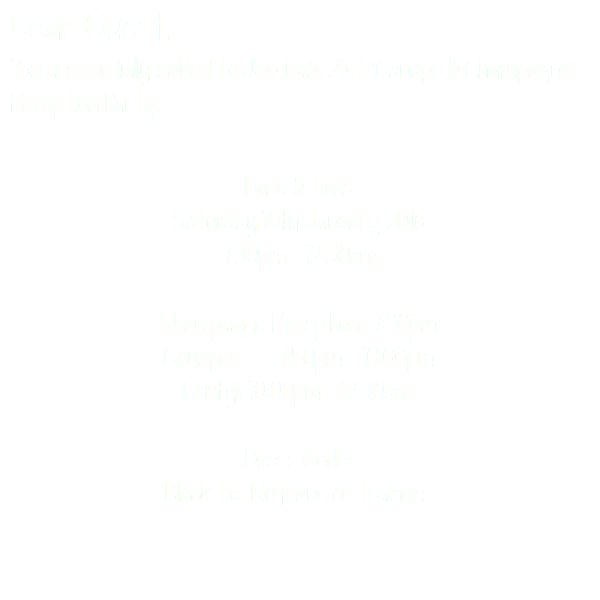
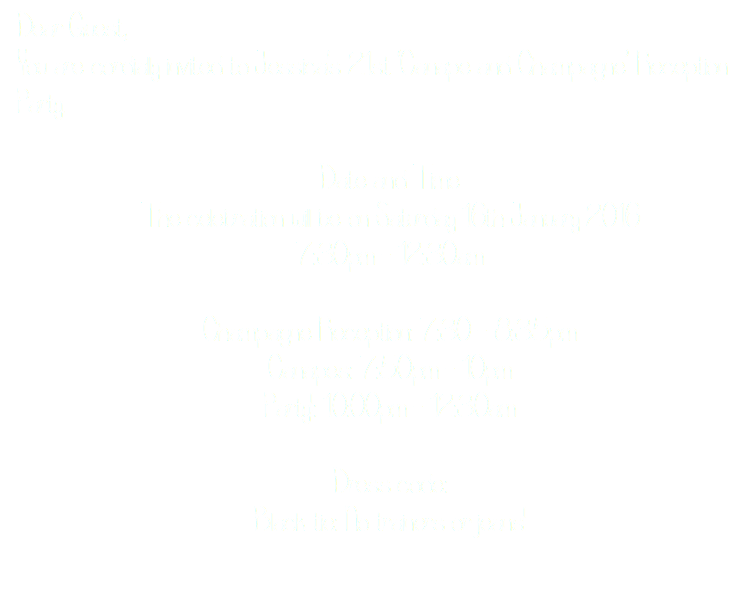
change

Changed region(s): [[0.42, 0.81, 0.45, 0.84], [0.09, 0.03, 0.12, 0.06]]

diff --git a/index.html b/index.html
@@ -28,9 +28,9 @@
         </div>
       </div>
   
-                <img class="title" src="invitation1.png" height="800" width:"800">
+                <img class="title" src="invitation1.png">
 
-                 <p class="lead"> <a href="invitation.html" class="btn btn-lg btn-default"> Click here to open your inivitation!</a> </p>
+                 <p class="lead"> <a href="invitation.html"> Click here to open your inivitation!</a> </p>
              <img id="main" src="babyjess1.jpg" class='img-circle' height="400" weight="400"> 
 
                     </div>

diff --git a/RSVP.html b/RSVP.html
@@ -13,6 +13,7 @@
 <body>
 
   <div class="container">
+    <div class="col-md-12">
              <ul class="nav nav-pills nav-justified">
               <li><a href="invitation.html">Open your invitation!</a></li>
               <li><a href="gettingthere.html">Getting there</a></li>

diff --git a/cover.css b/cover.css
@@ -1,8 +1,4 @@
-/*
- * Globals
- */
 
-/* Links */
 a,
 a:focus,
 a:hover {
@@ -27,7 +23,7 @@ body {
 }
 body {
   color: black;
-  text-align: left;
+  text-align: center;
   text-shadow: 0 1px 3px rgba(0,0,0,.5);
   border-width: 10px;
   font-size:15px;
